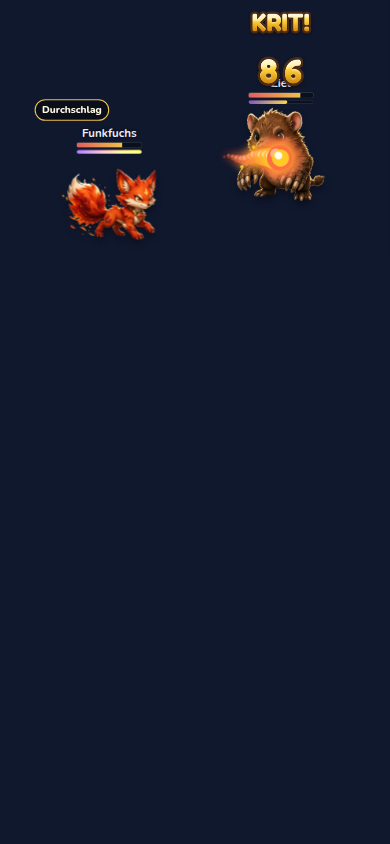
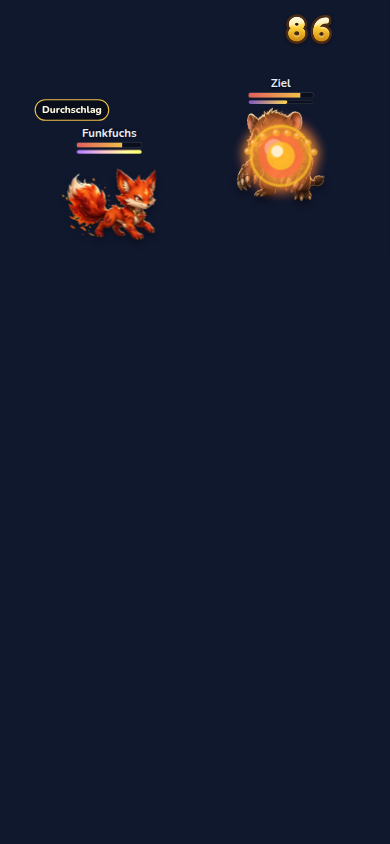
Schildwall hält drei Sekunden, die Zahl weicht dem Namen aus.
Der Wall endet nach drei Aktionen der Kampfuhr oder beim K.o. Die Trefferzahl startet höher und seitlich, damit Name und HP-Leiste frei bleiben.

Changed region(s): [[0.5846, 0.0, 0.8615, 0.2464]]

diff --git a/src/adventure/battle.ts b/src/adventure/battle.ts
@@ -4,7 +4,7 @@ import type { SkillDef, SkillEffect, SpeciesPassive, StatusId, TypeId } from '..
 import { ACTION_LIMIT } from './const'
 import { awakenCount } from './stats'
 import { weatherFactor, type WeatherId } from './weather'
-import { ULT_BOSS_FETTER, ULT_DAMAGE, ULT_HEAL, ULT_IMPULSE, ULT_IMPULSE_ATTACKS, ULT_PIERCE, ULT_WALL_CUT, gainUlt, ultName, ultPattern, ultReady, ultUnlocked, type UltPattern } from './ult'
+import { ULT_BOSS_FETTER, ULT_DAMAGE, ULT_HEAL, ULT_IMPULSE, ULT_IMPULSE_ATTACKS, ULT_PIERCE, ULT_WALL_CUT, gainUlt, ultName, ultPattern, ultReady, ultUnlocked, wallActions, type UltPattern } from './ult'
 
 export interface FightSide {
   speciesId: string
@@ -93,7 +93,9 @@ interface Actor {
   passiveDuration: number
   ultCharge: number
   impulseLeft: number
-  wall: boolean
+  /** Actions of Schildwall still left. 0 means none. */
+  wallLeft: number
+  wallFresh: boolean
   skip: boolean
 }
 
@@ -166,7 +168,8 @@ function makeActor(side: FightSide): Actor {
     passiveDuration,
     ultCharge: 0,
     impulseLeft: 0,
-    wall: false,
+    wallLeft: 0,
+    wallFresh: false,
     skip: false
   }
 }
@@ -269,7 +272,7 @@ export function fight1v1(allySide: FightSide, foeSide: FightSide, rng: () => num
   push(`${ally.side.name} gegen ${foe.side.name}`)
 
   const hurt = (target: Actor, amount: number, ignoreShield: boolean): number => {
-    let remaining = target.wall ? Math.floor(amount * (1 - ULT_WALL_CUT)) : amount
+    let remaining = target.wallLeft > 0 ? Math.floor(amount * (1 - ULT_WALL_CUT)) : amount
     if (!ignoreShield && target.shield > 0 && remaining > 0) {
       const absorbed = Math.min(target.shield, remaining)
       target.shield -= absorbed
@@ -282,6 +285,8 @@ export function fight1v1(allySide: FightSide, foeSide: FightSide, rng: () => num
     const past = remaining
     if (remaining > 0) target.hp -= remaining
     if (target.hp <= 0) {
+      target.wallLeft = 0
+      target.wallFresh = false
       if (target.rebirths > 0) {
         target.rebirths -= 1
         target.hp = Math.max(1, Math.floor(target.side.maxHp * target.rebirthPct))
@@ -366,7 +371,8 @@ export function fight1v1(allySide: FightSide, foeSide: FightSide, rng: () => num
     if (pattern === 'durchschlag') {
       if (other.hp > 0) strike(unit, other, ULT_DAMAGE, ULT_PIERCE, pattern)
     } else if (pattern === 'schildwall') {
-      unit.wall = true
+      unit.wallLeft = wallActions(1)
+      unit.wallFresh = true
       if (trace) pending.push({ from: unit === ally ? 'ally' : 'foe', amount: 0, crit: false, type: unit.side.type, band: 'neutral', ko: false, kind: 'status', ult: pattern })
     } else if (pattern === 'impuls') {
       unit.impulseLeft = ULT_IMPULSE_ATTACKS
@@ -424,6 +430,11 @@ export function fight1v1(allySide: FightSide, foeSide: FightSide, rng: () => num
     if (unit.hp > 0) tick(unit)
   }
 
+  const ageWall = (unit: Actor) => {
+    if (unit.wallFresh) unit.wallFresh = false
+    else if (unit.wallLeft > 0) unit.wallLeft -= 1
+  }
+
   const allyFirst = ally.side.spd >= foe.side.spd
   let actions = 0
   let timeout = false
@@ -431,6 +442,8 @@ export function fight1v1(allySide: FightSide, foeSide: FightSide, rng: () => num
     const turn = actions % 2 === 0 ? (allyFirst ? ally : foe) : (allyFirst ? foe : ally)
     const other = turn === ally ? foe : ally
     act(turn, other)
+    ageWall(ally)
+    ageWall(foe)
     actions += 1
   }
   if (ally.hp > 0 && foe.hp > 0) timeout = true

diff --git a/src/adventure/ult.test.ts b/src/adventure/ult.test.ts
@@ -2,7 +2,7 @@ import { describe, expect, it } from 'vitest'
 import { species } from '../data'
 import { fight1v1, rawDamage, type FightSide } from './battle'
 import { ENCOUNTER_MS } from './const'
-import { ULT_DAMAGE, ULT_PATTERNS, ULT_PIERCE, ULT_SEGMENTS, ultPattern, ultReady, ultUnlocked } from './ult'
+import { ULT_DAMAGE, ULT_PATTERNS, ULT_PIERCE, ULT_SEGMENTS, ultPattern, ultReady, ultUnlocked, wallActions } from './ult'
 import { weatherFactor } from './weather'
 
 function side(id: string, level: number, hp: number, atk: number, spd = 100): FightSide {
@@ -66,6 +66,27 @@ describe('ultimates', () => {
     expect(heal(rain)?.amount).toBe(Math.floor(1000 * 0.25))
     expect(heal(rain)?.amount).toBe(heal(clear)?.amount)
     expect(ENCOUNTER_MS[1]).toBe(2800)
+  })
+
+  it('holds Schildwall for three actions at ×1, then the next hit is full', () => {
+    expect(wallActions(1)).toBe(3)
+    expect(wallActions(2)).toBe(2)
+    expect(wallActions(3)).toBe(1)
+    const trace = fight1v1(side('m02', 25, 9000, 8, 200), side('m10', 1, 9000, 36, 1), () => 0.99, true)
+    const hits: number[] = []
+    let armed = false
+    for (const frame of trace.frames) {
+      if (frame.hits?.some((hit) => hit.ult === 'schildwall')) armed = true
+      if (!armed) continue
+      for (const hit of frame.hits ?? []) {
+        if (hit.from === 'foe' && hit.kind === 'hit') hits.push(hit.amount)
+      }
+    }
+    expect(hits.length).toBeGreaterThanOrEqual(3)
+    const full = hits[2]
+    expect(hits[0]).toBe(Math.floor(full * 0.6))
+    expect(hits[1]).toBe(Math.floor(full * 0.6))
+    expect(full).toBeGreaterThan(hits[0])
   })
 
   it('keeps a short fight near the old length and reports the long one', () => {

diff --git a/src/adventure/app.ts b/src/adventure/app.ts
@@ -298,8 +298,9 @@ function showK4Demo(part: string | null): void {
     }
     const from = stagePoint(ally, fx)
     const to = stagePoint(foe, fx)
+    const head = numberPoint(foe, fx)
     playBattleFx({ type: 'fire', crit: true, band: 'strong', awaken: true, shimmer: false, reduced: false, tempo: 1, from, to, ult: true })
-    showHitNumber(to.x, to.y - 160, 86, 'crit', numberHoldMs(1))
+    showHitNumber(head.x, head.y, 86, 'crit', numberHoldMs(1))
     window.setTimeout(mark, 160)
   }))
 }
@@ -1081,10 +1082,12 @@ function numberPoint(actor: HTMLElement, host: HTMLElement): { x: number; y: num
   if (!(img instanceof HTMLElement)) return { x: pt.x, y: pt.y - 220 }
   const box = img.getBoundingClientRect()
   const frame = host.getBoundingClientRect()
+  const width = host.clientWidth || frame.width || 1
   const height = host.clientHeight || frame.height || 1
   const top = ((box.top - frame.top) / (frame.height || 1)) * height
-  // Crit frames hang about 30px under the baseline and the label sits ~200px above it.
-  return { x: pt.x, y: Math.max(220, top - 48) }
+  // The label sits about 200px above this point. Keep it above the name and off the HP bar.
+  const side = pt.x > width / 2 ? 1 : -1
+  return { x: pt.x + side * 78, y: Math.max(170, top - 150) }
 }
 
 function stagePoint(actor: HTMLElement, host: HTMLElement): { x: number; y: number } {

diff --git a/src/adventure/ult.ts b/src/adventure/ult.ts
@@ -3,9 +3,16 @@ export const ULT_LEVEL = 25
 export const ULT_SEGMENTS = 5
 export const ULT_DAMAGE = 1.6
 export const ULT_PIERCE = 0.3
-/** One encounter is 2.8 s, so a 3 s wall covers every later hit in that fight. */
+/** One action on the ×1 battle clock. The attack step is about a second. */
+export const ULT_ACTION_MS = 1000
+/** Schildwall: 3 s at ×1, so three actions. Playback speed shortens those same actions. */
 export const ULT_WALL_MS = 3000
 export const ULT_WALL_CUT = 0.4
+
+export function wallActions(speed = 1): number {
+  const pace = speed === 2 || speed === 3 ? speed : 1
+  return Math.max(1, Math.round(ULT_WALL_MS / ULT_ACTION_MS / pace))
+}
 export const ULT_IMPULSE = 0.25
 export const ULT_IMPULSE_ATTACKS = 4
 export const ULT_HEAL = 0.25

diff --git a/docs/k4-ult.md b/docs/k4-ult.md
@@ -5,9 +5,9 @@ Werte aus `docs/kampf-upgrade-konzept.md`, Abschnitt B1. Die Leiste lebt nur im 
 | Muster | Wirkung |
 |---|---|
 | Durchschlag | 1 Ziel, Schaden ×1,6, ignoriert 30 % DEF, danach der Wetterfaktor |
-| Schildwall | Schaden −40 % auf das eigene Monster für den Rest des Kampfes. Ein Kampf dauert 2,8 s, die 3 s aus dem Konzept decken also jeden späteren Treffer. |
+| Schildwall | Schaden −40 % für 3 s auf das aktive eigene Monster. Eine Aktion der Kampfuhr ist 1 s bei ×1, also drei Aktionen. Danach ist der Wall weg. Bei ×2 sind es zwei Aktionen, bei ×3 eine, weil die gleiche Uhr mit dem Tempo läuft. K.o. oder ein Wechsel beendet ihn sofort. |
 | Impuls | ATK +25 % für die nächsten 4 eigenen Angriffe |
-| Fessel | Das Ziel setzt 1 Runde aus. Bei einem Boss greift sie mit 50 % |
+| Fessel | Das Ziel setzt 1 Runde aus. „Dauer −50 %“ beim Boss ist als 50-%-Chance ausgelegt, dass die Fessel greift. |
 | Heilleucht | Heilt 25 % der eigenen Max-HP, ohne Wetterfaktor |
 
 20 Arten je Muster, `m01` ist Durchschlag.
